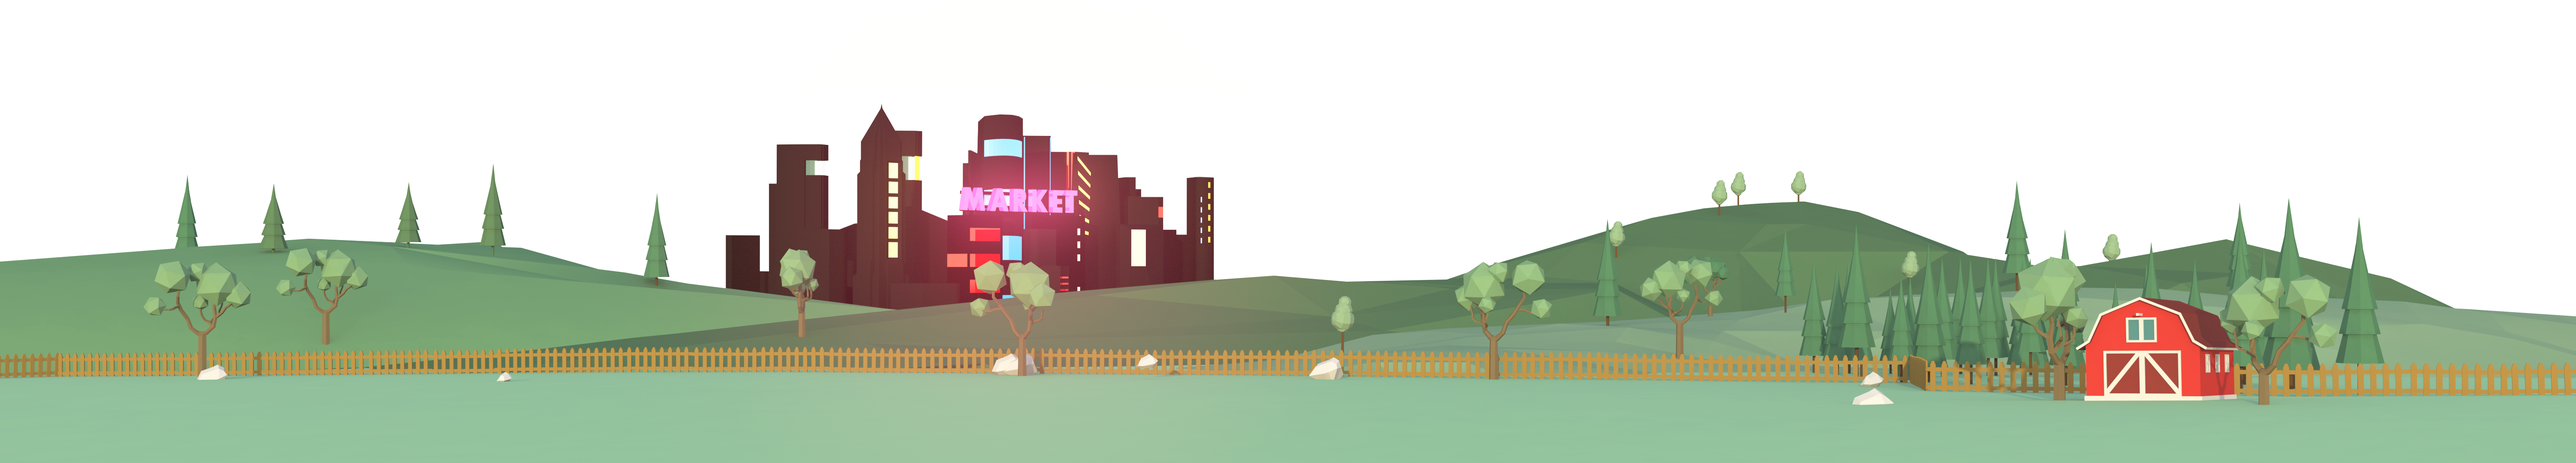
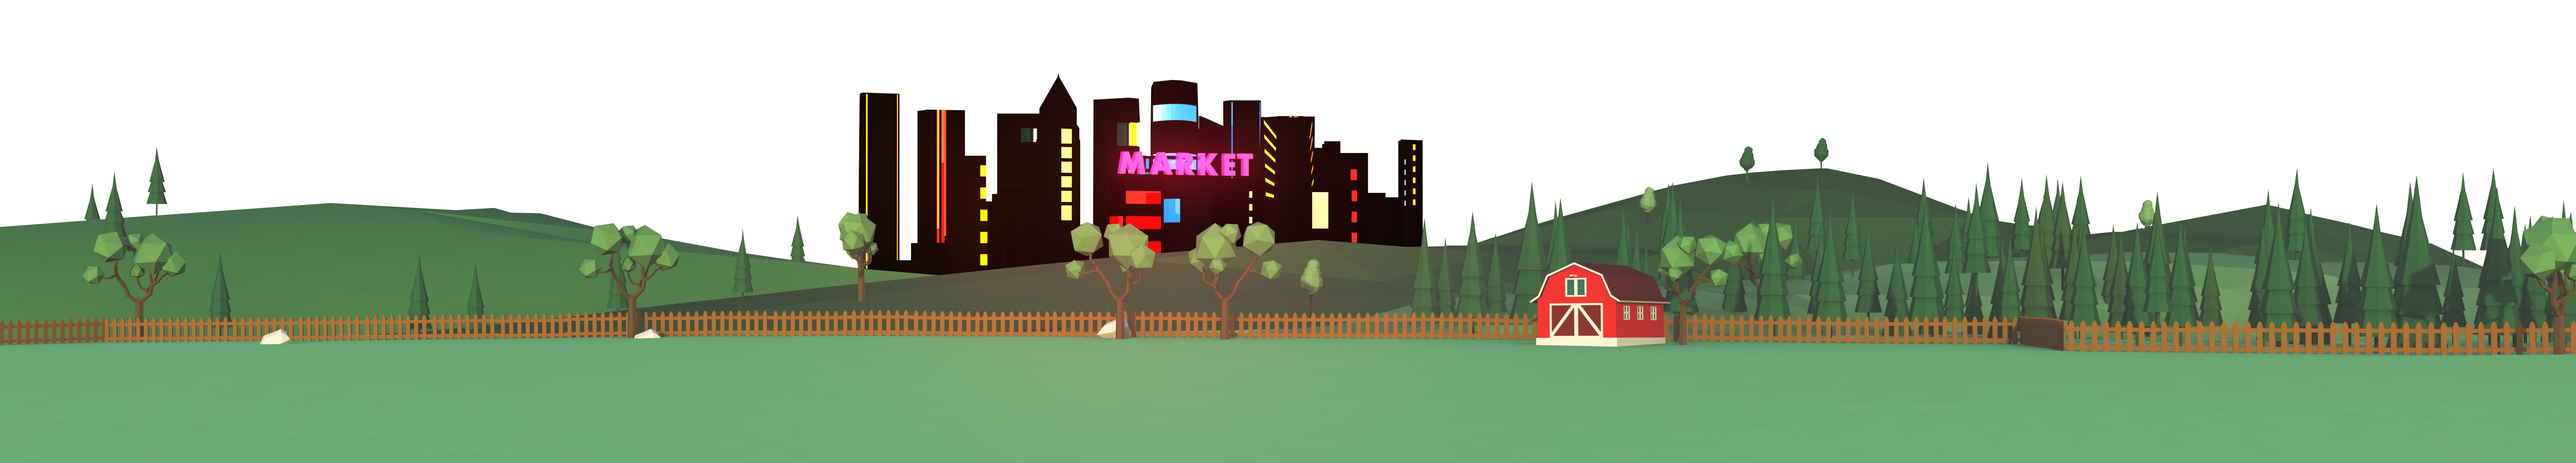
change cow detail design

diff --git a/src/LoadingUI.ts b/src/LoadingUI.ts
@@ -35,17 +35,35 @@ class LoadingUI extends egret.Sprite implements RES.PromiseTaskReporter {
     }
 
     private textField: egret.TextField;
+    private cow: egret.Bitmap;
+    private cowUrl = "resource/assets/cow_bitcoin.png";
 
     private createView(): void {
         this.textField = new egret.TextField();
         this.addChild(this.textField);
-        this.textField.y = 300;
+        this.textField.x = GameConst.SCENT_WIDTH / 2 - 240;
+        this.textField.y = GameConst.SCENT_HEIGHT / 2 + 150;
         this.textField.width = 480;
         this.textField.height = 100;
         this.textField.textAlign = "center";
+
+        const imageLoader:egret.ImageLoader = new egret.ImageLoader();
+        imageLoader.addEventListener(egret.Event.COMPLETE,this.loadCompleteHandler,this);
+        imageLoader.load(this.cowUrl);
+
     }
 
     public onProgress(current: number, total: number): void {
-        this.textField.text = `Loading...${current}/${total}`;
+        this.textField.text = `CoinCow is Loading... ${current}/${total}`;
+    }
+
+    private loadCompleteHandler(event:egret.Event):void {
+        var imageLoader = <egret.ImageLoader>event.currentTarget;
+        let texture = new egret.Texture();
+        texture._setBitmapData(imageLoader.data);
+        this.cow = new egret.Bitmap(texture);
+        this.addChild(this.cow);
+        this.cow.x =  GameConst.SCENT_WIDTH / 2 - 175;
+        this.cow.y = GameConst.SCENT_HEIGHT / 2 - 150;
     }
 }

diff --git a/src/views/HomeView.ts b/src/views/HomeView.ts
@@ -13,13 +13,28 @@ class HomeView extends egret.Sprite {
 		label.textColor = 0xFFFFFF;
         label.size = 100;
 		this.addChild(label);
-		label.x = GameConst.SCENT_WIDTH / 2 - 300;
+		label.x = GameConst.SCENT_WIDTH / 2 - 500;
 		label.y = GameConst.SCENT_HEIGHT / 2 - 200;
+        // add cows
+        let cow1 = this.createBitmapByName("cow_bitcoin_png");
+		this.addChild(cow1);
+		cow1.width = 350;
+		cow1.height = 250;
+		cow1.x = 60;
+		cow1.y = GameConst.SCENT_HEIGHT - 400;
+
+        let cow2 = this.createBitmapByName("cow_lama_png");
+		this.addChild(cow2);
+		cow2.width = 350;
+		cow2.height = 250;
+		cow2.x = GameConst.SCENT_WIDTH - 400;
+		cow2.y = GameConst.SCENT_HEIGHT - 300;
+
         // add button
         var button = new eui.Button();
-        button.width = 500;
-        button.height = 60;
-        button.x = GameConst.SCENT_WIDTH / 2 - 100;
+        button.width = 1000;
+        button.height = 100;
+        button.x = GameConst.SCENT_WIDTH / 2 - 500;
         button.y = GameConst.SCENT_HEIGHT / 2 + 100;
         button.label = "Start Mooring";
         this.addChild(button);

diff --git a/src/views/BackgroundView.ts b/src/views/BackgroundView.ts
@@ -21,23 +21,6 @@ class BackgroundView extends egret.Sprite {
         this.ft.height = stageH;
         this.posX = GameConst.GamePoxX;
         this.ft.x = -this.posX;
-        // draw cloud
-        const cloud1 = this.createBitmapByName("background_cloud1_png");
-        this.addChild(cloud1);
-        cloud1.x = 200;
-        cloud1.y = 100;
-        const cloud2 = this.createBitmapByName("background_cloud2_png");
-        this.addChild(cloud2);
-        cloud2.x = 500;
-        cloud2.y = 150;
-        const cloud3 = this.createBitmapByName("background_cloud3_png");
-        this.addChild(cloud3);
-        cloud3.x = 1200;
-        cloud3.y = 130;
-        const cloud4 = this.createBitmapByName("background_cloud4_png");
-        this.addChild(cloud4);
-        cloud4.x = 1600;
-        cloud4.y = 200;
 		console.log("bg rendered");
     }
     public movebg():void {

diff --git a/src/Main.ts b/src/Main.ts
@@ -42,7 +42,7 @@ class Main extends egret.DisplayObjectContainer {
     private onAddToStage(event: egret.Event) {
         GameConst.SCENT_WIDTH = this.stage.stageWidth;
         GameConst.SCENT_HEIGHT = this.stage.stageHeight;
-        GameConst.GamePoxX = 3200;
+        GameConst.GamePoxX = 0;
 
         egret.lifecycle.addLifecycleListener((context) => {
             // custom lifecycle plugin
@@ -123,7 +123,7 @@ class Main extends egret.DisplayObjectContainer {
         this.removeChildren();
         this.addChild(this.bg);
         this.addChild(this.farm);
-        GameConst.GamePoxX = 3200;
+        GameConst.GamePoxX = 2000;
         this.bg.movebg();
         this.addMenu();
     }

diff --git a/src/views/FarmView.ts b/src/views/FarmView.ts
@@ -91,8 +91,8 @@ class FarmView extends egret.Sprite {
 			this.removeChild(this.cowDetail);
 		}
 		const modal = new CowDetailModal(this.cows[cowIndex]);
-		modal.x = GameConst.SCENT_WIDTH / 2 - 570;
-        modal.y = GameConst.SCENT_HEIGHT / 2 - 270;
+		modal.x = GameConst.SCENT_WIDTH / 2 - 600;
+        modal.y = GameConst.SCENT_HEIGHT / 2 - 440;
 		this.cowDetail = modal;
 		this.addChild(this.cowDetail);
     }
